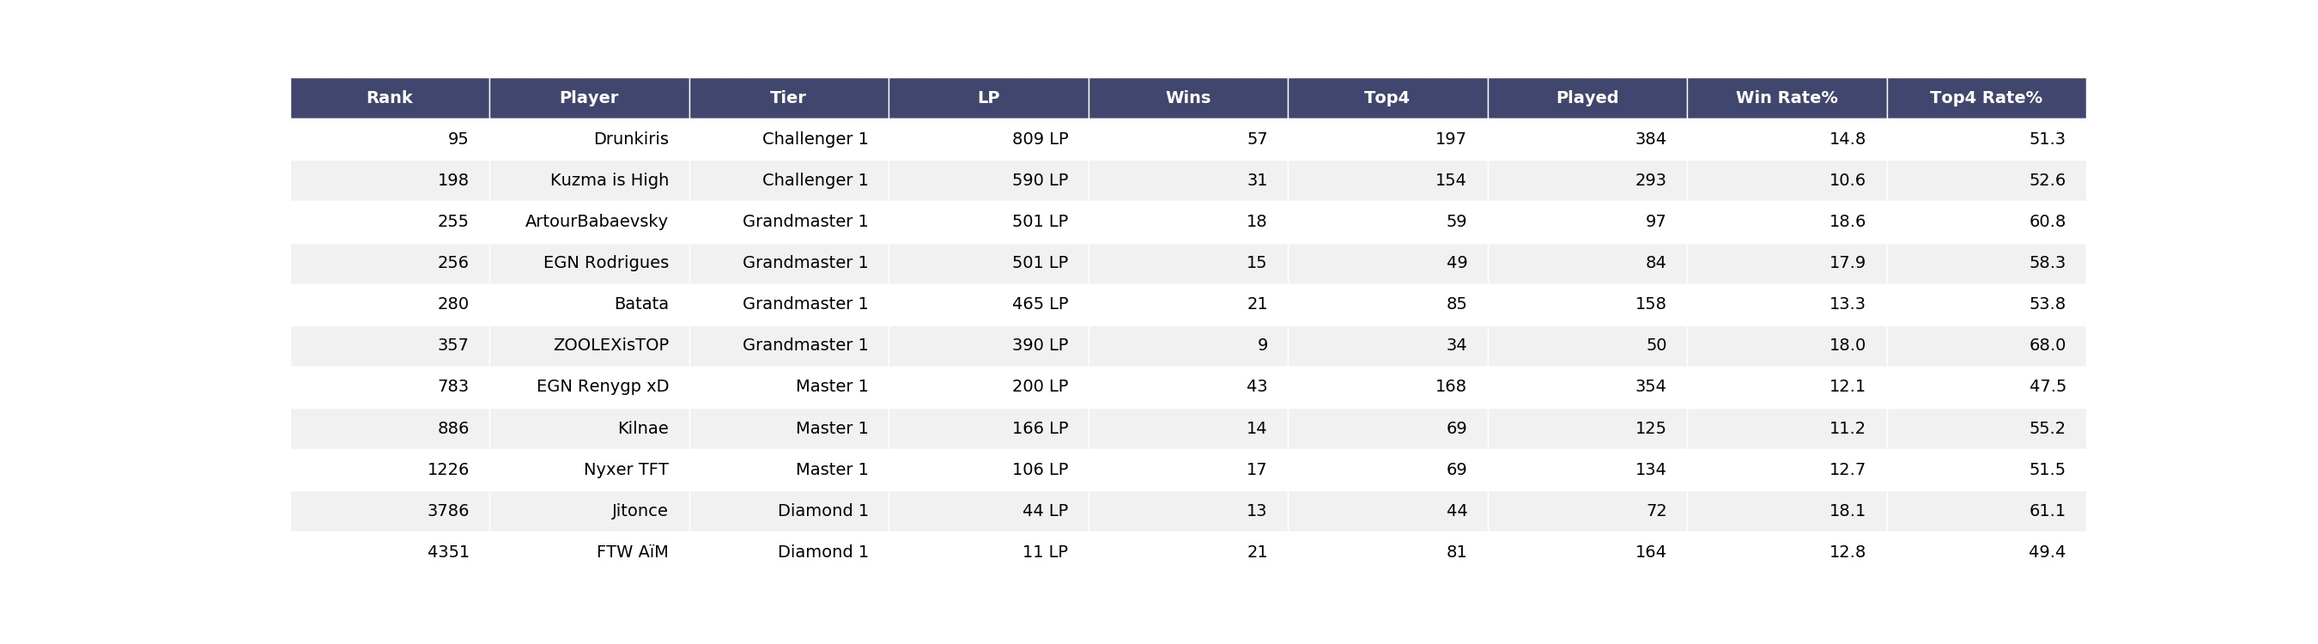
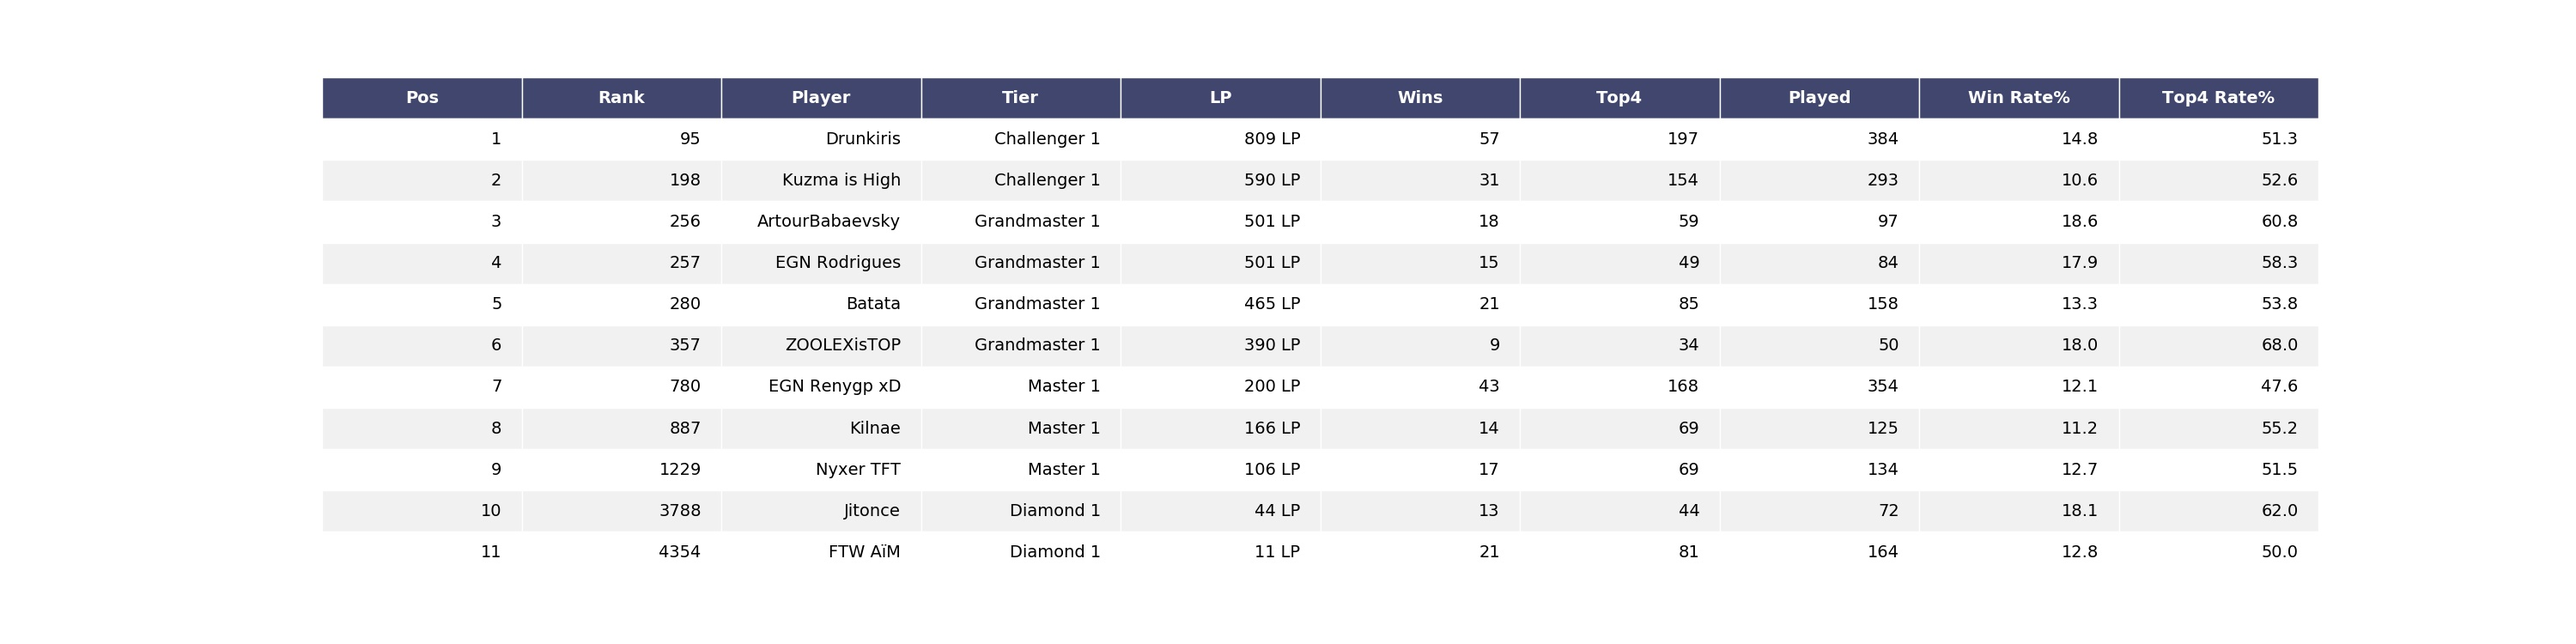
lista ordenada pos index name

diff --git a/script_test.py b/script_test.py
@@ -95,9 +95,14 @@ players_positions.sort_values(by ='Rank' , ascending=True, inplace=True)
 #players_positions.set_index('Rank', inplace=True)
 #players_positions.reset_index(drop=True, inplace=True)
 
-players_positions.index = players_positions.index + 1
+players_positions.index.name = 'Pos'
+#players_positions.rename(index={0: 'Pos'}, inplace=True)
+#players_positions.rename_axis('Pos', inplace=True)
+#players_positions.index = players_positions.index + 1
 players_positions.reset_index(drop=True, inplace=True)
 players_positions.index = players_positions.index + 1
+players_positions.index.name = 'Pos'
+
 
 table_Data = tabulate(players_positions, headers='keys', tablefmt='psql')
 
@@ -108,7 +113,7 @@ print(table_Data)
 #print("\n")
 #print(players_positions)
 
-players_positions_sorted = players_positions.to_csv('listarank.csv', index=False)
+players_positions_sorted = players_positions.to_csv('listarank.csv', index=True)
 data = pd.read_csv('listarank.csv', delimiter=',')
 
 
